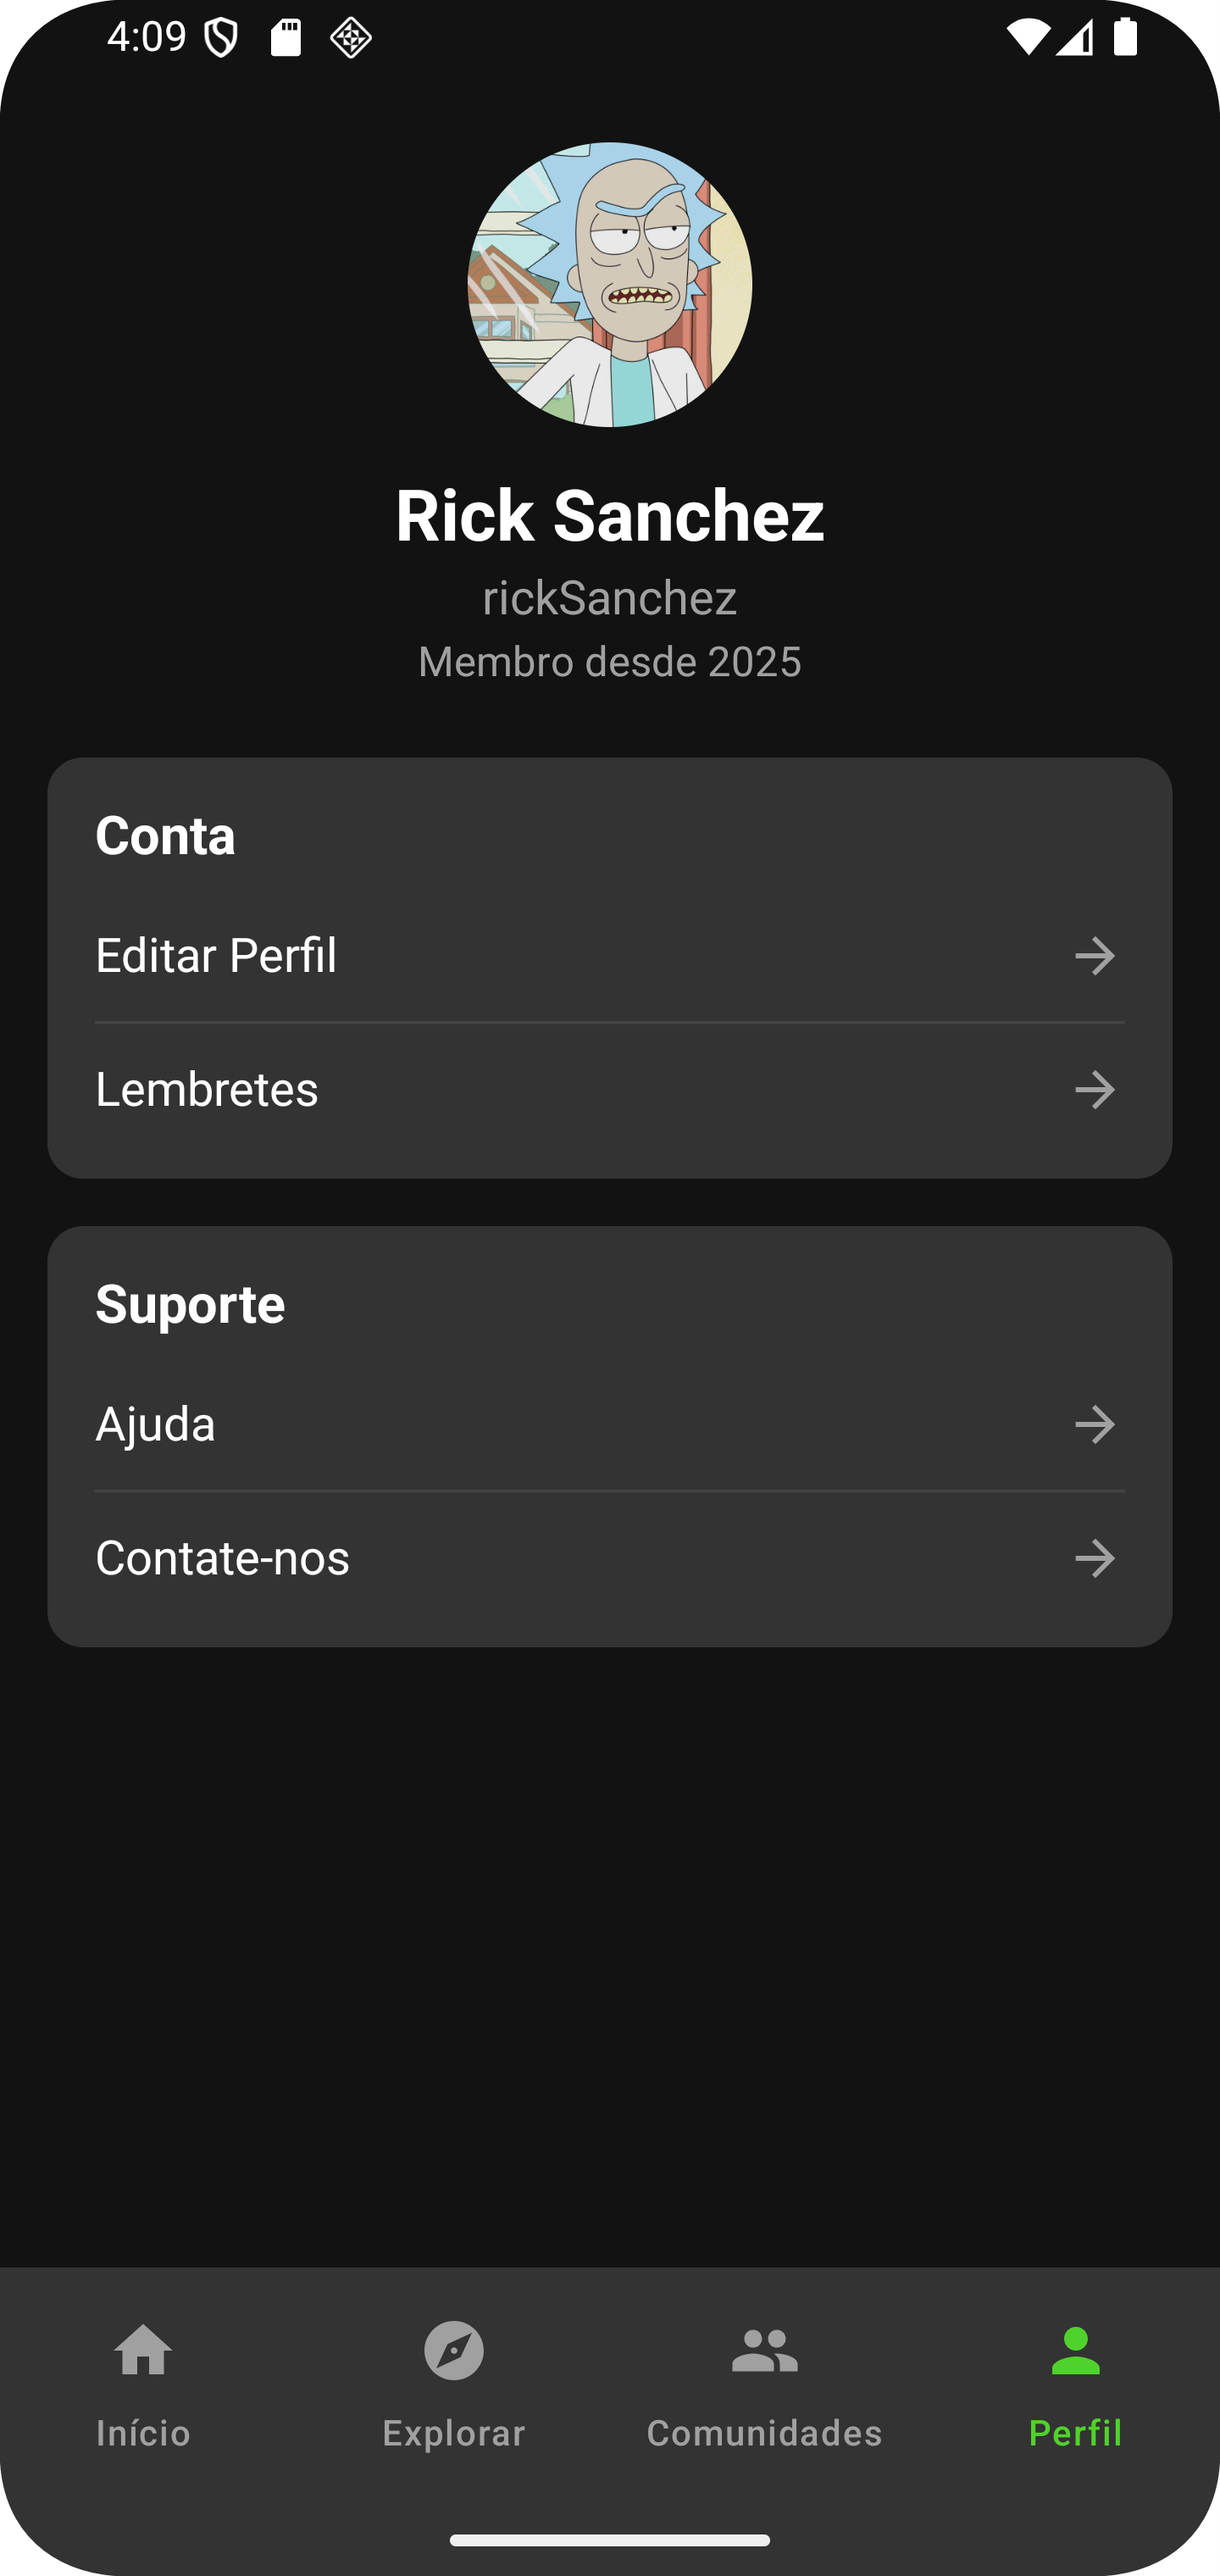
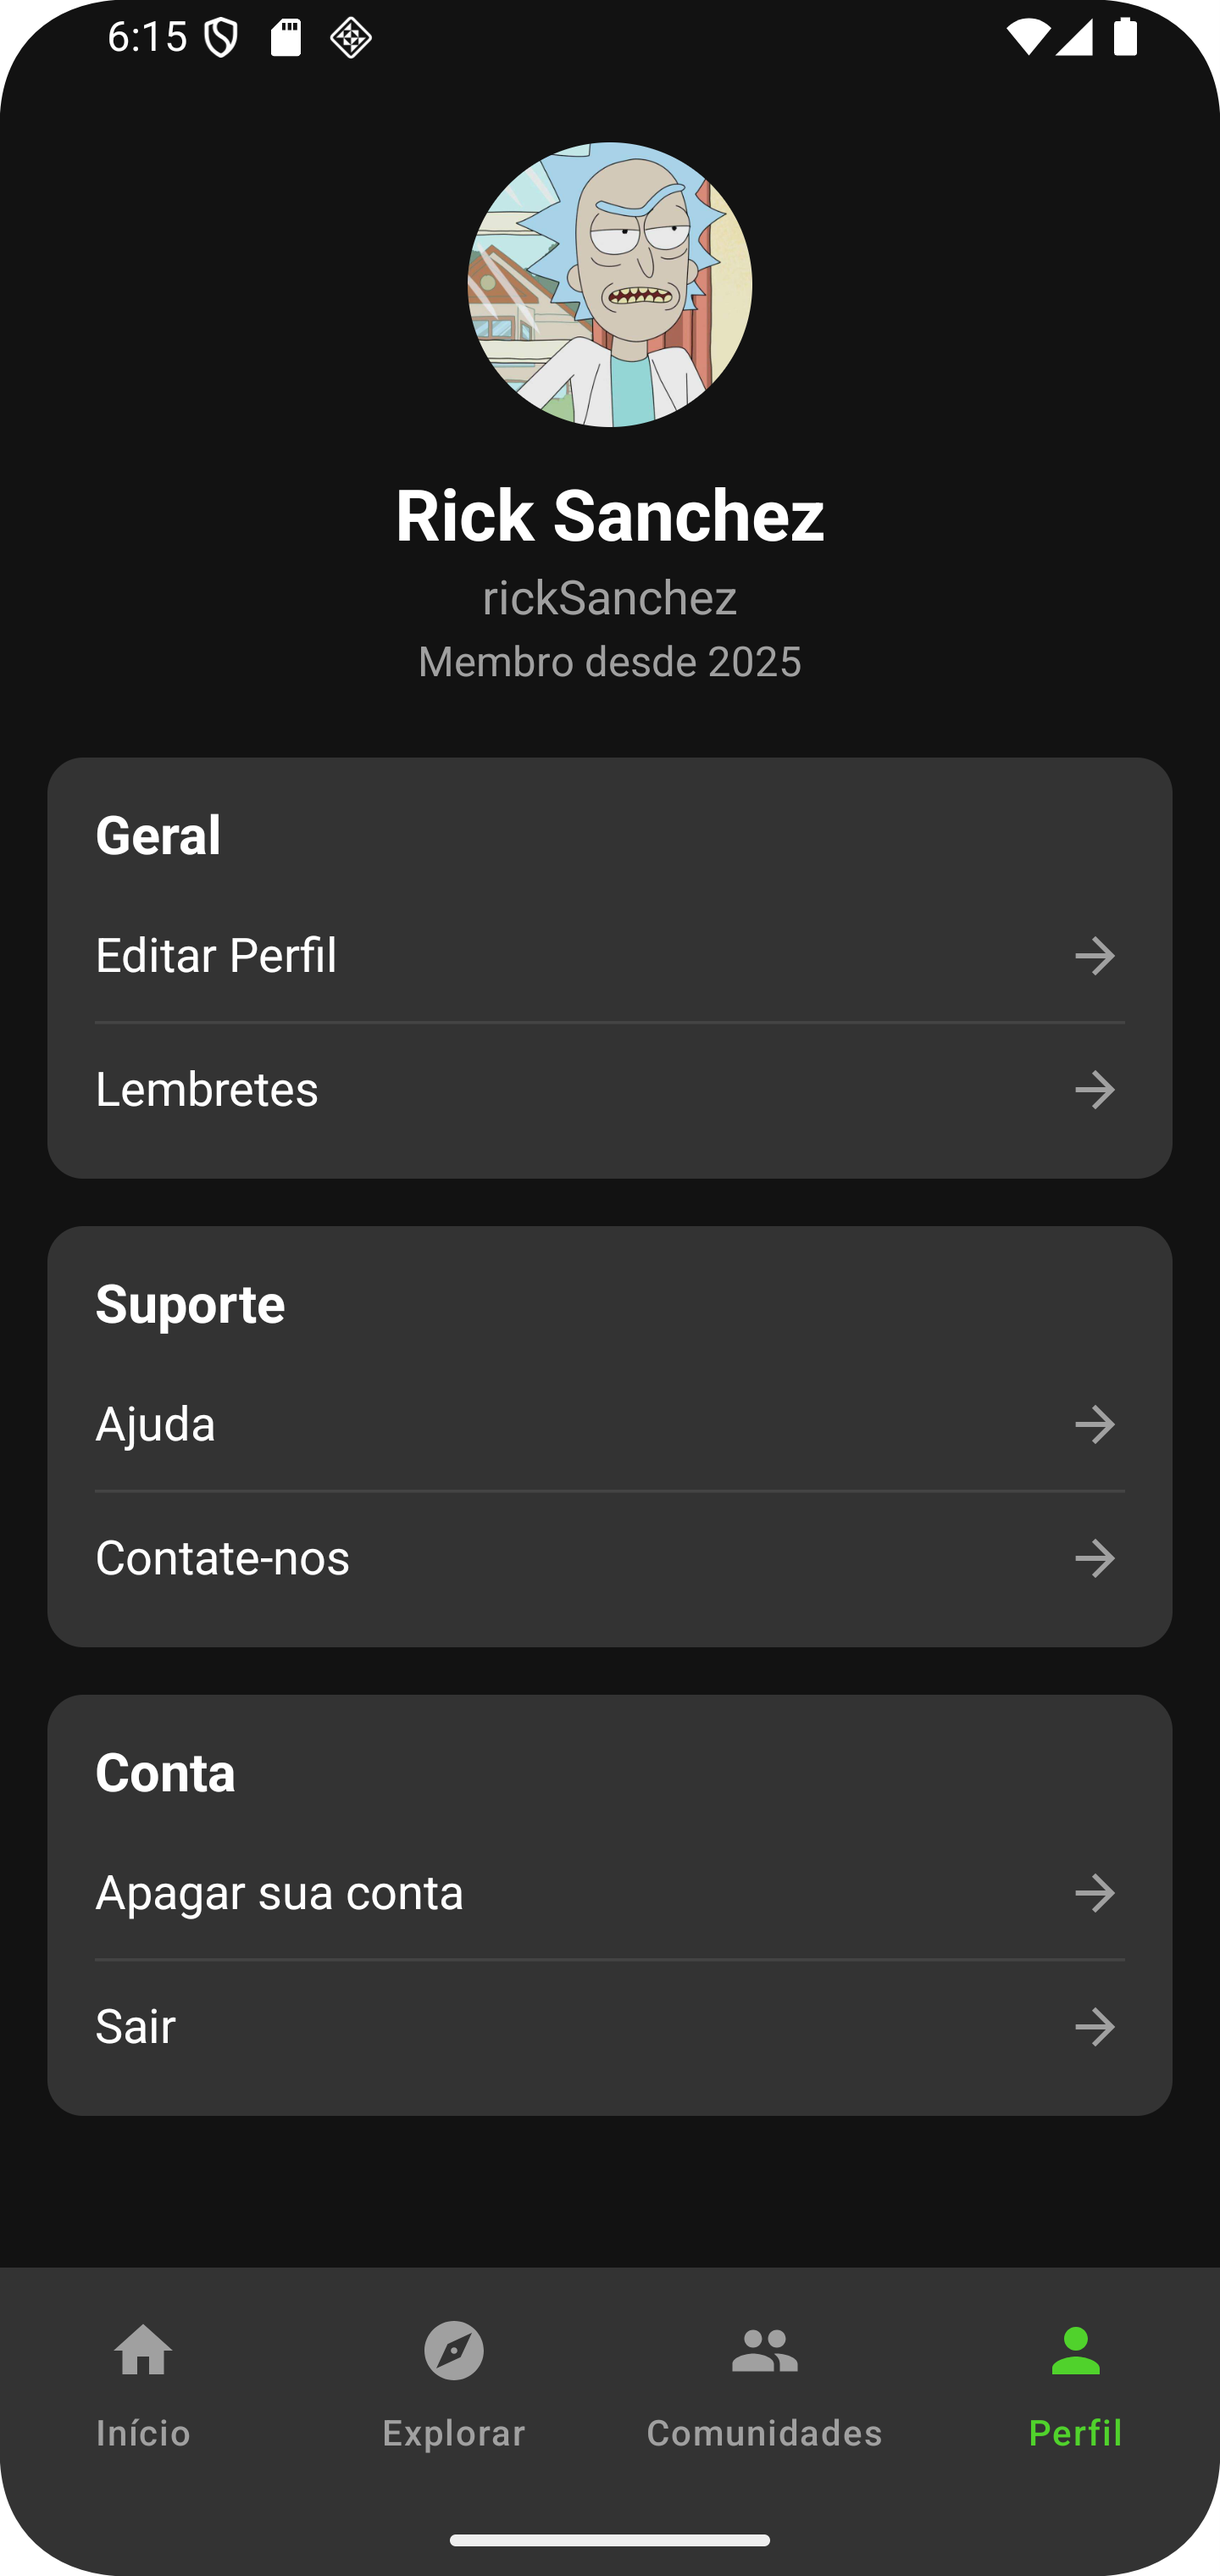
feat: add delete user account functionality and integrate into profile screen

Changed region(s): [[0.0312, 0.6562, 0.9688, 0.8438], [0.0938, 0.3125, 0.1875, 0.3438], [0.0938, 0.0, 0.1562, 0.0312]]

diff --git a/app/src/main/java/com/silva021/minhajornada/ui/screens/profile/ProfileScreen.kt b/app/src/main/java/com/silva021/minhajornada/ui/screens/profile/ProfileScreen.kt
@@ -1,12 +1,19 @@
 package com.silva021.minhajornada.ui.screens.profile
 
 import android.util.Log
+import androidx.compose.material3.Scaffold
+import androidx.compose.material3.SnackbarDuration
+import androidx.compose.material3.SnackbarHost
+import androidx.compose.material3.SnackbarHostState
 import androidx.compose.runtime.Composable
 import androidx.compose.runtime.LaunchedEffect
 import androidx.compose.runtime.collectAsState
 import com.silva021.minhajornada.ui.screens.defaults.error.ErrorScreen
 import com.silva021.minhajornada.ui.screens.defaults.loading.LoadingScreen
 import androidx.compose.runtime.getValue
+import androidx.compose.runtime.remember
+import androidx.compose.runtime.rememberCoroutineScope
+import kotlinx.coroutines.launch
 
 @Composable
 fun ProfileScreen(
@@ -14,11 +21,12 @@ fun ProfileScreen(
     onContactUsClick: () -> Unit,
     onHelpClick: () -> Unit,
     onEditProfileClick: () -> Unit,
-    onRemindersClick: () -> Unit
     onRemindersClick: () -> Unit,
     onNavigateToLogin: () -> Unit
 ) {
     val uiState by viewModel.uiState.collectAsState()
+    val snackbarHostState = remember { SnackbarHostState() }
+    val coroutineScope = rememberCoroutineScope()
 
     LaunchedEffect(Unit) {
         viewModel.fetchProfile()
@@ -27,6 +35,14 @@ fun ProfileScreen(
             when (event) {
                 is NavigationEvent.NavigateToLogin -> {
                     onNavigateToLogin.invoke()
+                }
+                is NavigationEvent.ShowSnackbar -> {
+                    coroutineScope.launch {
+                        snackbarHostState.showSnackbar(
+                            message = event.message,
+                            duration = SnackbarDuration.Long
+                        )
+                    }
                 }
             }
         }
@@ -37,14 +53,20 @@ fun ProfileScreen(
         is ProfileUiState.Error -> ErrorScreen(
             onRetry = { viewModel.fetchProfile() }
         )
-        is ProfileUiState.Success -> ProfileContent(
-            profile = state.profile,
-            onEditProfileClick = onEditProfileClick,
-            onContactUsClick = onContactUsClick,
-            onHelpClick = onHelpClick,
-            onRemindersClick = onRemindersClick
-            onRemindersClick = onRemindersClick,
-            onLogout = { viewModel.logout() }
-        )
+        is ProfileUiState.Success -> {
+            Scaffold(
+                snackbarHost = { SnackbarHost(hostState = snackbarHostState) }
+            ) { _ ->
+                ProfileContent(
+                    profile = state.profile,
+                    onEditProfileClick = onEditProfileClick,
+                    onContactUsClick = onContactUsClick,
+                    onHelpClick = onHelpClick,
+                    onRemindersClick = onRemindersClick,
+                    onDeleteAccount = { viewModel.deleteAccount() },
+                    onLogout = { viewModel.logout() }
+                )
+            }
+        }
     }
 }

diff --git a/app/src/main/java/com/silva021/minhajornada/ui/screens/profile/ProfileViewModel.kt b/app/src/main/java/com/silva021/minhajornada/ui/screens/profile/ProfileViewModel.kt
@@ -1,8 +1,12 @@
 package com.silva021.minhajornada.ui.screens.profile
 
+import androidx.compose.runtime.State
+import androidx.compose.runtime.mutableStateOf
 import androidx.lifecycle.ViewModel
 import androidx.lifecycle.viewModelScope
+import com.google.firebase.auth.FirebaseAuthRecentLoginRequiredException
 import com.silva021.minhajornada.domain.model.Profile
+import com.silva021.minhajornada.domain.usecases.DeleteUserAccountUseCase
 import com.silva021.minhajornada.domain.usecases.GetMyProfileUseCase
 import com.silva021.minhajornada.domain.usecases.LogoutUserUseCase
 import kotlinx.coroutines.channels.BufferOverflow
@@ -16,7 +20,8 @@ import kotlinx.coroutines.launch
 
 class ProfileViewModel(
     private val getProfile: GetMyProfileUseCase,
-    private val logoutUserUseCase: LogoutUserUseCase
+    private val logoutUserUseCase: LogoutUserUseCase,
+    private val deleteUserAccountUseCase: DeleteUserAccountUseCase
 ) : ViewModel() {
 
     private val _uiState = MutableStateFlow<ProfileUiState>(ProfileUiState.Loading)
@@ -27,17 +32,42 @@ class ProfileViewModel(
     )
     val eventFlow: Flow<NavigationEvent> = _eventFlow.asSharedFlow()
 
+    var profile: Profile? = null
+        private set
 
     fun fetchProfile() {
         if (_uiState.value.isSuccess().not()) {
             viewModelScope.launch {
                 _uiState.value = ProfileUiState.Loading
                 getProfile().onSuccess {
+                    profile = it
                     _uiState.value = ProfileUiState.Success(it)
                 }.onFailure {
                     _uiState.value = ProfileUiState.Error(
                         message = it.message ?: "Erro ao carregar perfil"
                     )
+                }
+            }
+        }
+    }
+
+    fun deleteAccount() {
+        viewModelScope.launch {
+            _uiState.value = ProfileUiState.Loading
+            deleteUserAccountUseCase.invoke().onSuccess {
+                _eventFlow.emit(NavigationEvent.NavigateToLogin)
+            }.onFailure { exception ->
+                profile?.let { profile ->
+                    _uiState.value = ProfileUiState.Success(profile)
+                }.also {
+                    when(exception) {
+                        is FirebaseAuthRecentLoginRequiredException -> {
+                            _eventFlow.emit(NavigationEvent.ShowSnackbar("É necessário fazer login novamente para excluir a conta"))
+                        }
+                        else -> {
+                            _eventFlow.emit(NavigationEvent.ShowSnackbar("Erro ao excluir conta"))
+                        }
+                    }
                 }
             }
         }
@@ -67,4 +97,5 @@ sealed class ProfileUiState {
 
 sealed class NavigationEvent {
     data object NavigateToLogin : NavigationEvent()
+    data class ShowSnackbar(val message: String) : NavigationEvent()
 }

diff --git a/app/src/main/java/com/silva021/minhajornada/di/Modules.kt b/app/src/main/java/com/silva021/minhajornada/di/Modules.kt
@@ -26,6 +26,7 @@ import com.silva021.minhajornada.domain.usecases.CreateReminderUseCase
 import com.silva021.minhajornada.domain.usecases.DeleteChallengeUseCase
 import com.silva021.minhajornada.domain.usecases.DeletePostUseCase
 import com.silva021.minhajornada.domain.usecases.DeleteReminderUseCase
+import com.silva021.minhajornada.domain.usecases.DeleteUserAccountUseCase
 import com.silva021.minhajornada.domain.usecases.EditPostUseCase
 import com.silva021.minhajornada.domain.usecases.GetChallengeByIdUseCase
 import com.silva021.minhajornada.domain.usecases.GetChallengesUseCase
@@ -68,7 +69,13 @@ import org.koin.dsl.module
 val viewModelModule = module {
     viewModel { ChallengesViewModel(get(), get()) }
     viewModel { CommunitiesViewModel(get()) }
-    viewModel { ProfileViewModel(get(), get()) }
+    viewModel {
+        ProfileViewModel(
+            getProfile = get(),
+            logoutUserUseCase = get(),
+            deleteUserAccountUseCase = get()
+        )
+    }
     viewModel { ExplorerViewModel(get(), get()) }
     viewModel { CommunityDetailsViewModel(get(), get()) }
     viewModel { CommunityFeedViewModel(get(), get(), get(), get(), get()) }
@@ -118,6 +125,7 @@ val usecasesModule = module {
     factory { GetPublicChallengesUseCase(get()) }
     factory { GetPublicChallengesByCategoryUseCase(get()) }
     factory { LogoutUserUseCase() }
+    factory { DeleteUserAccountUseCase() }
 }
 
 val repositoryModule = module {

diff --git a/app/src/main/java/com/silva021/minhajornada/ui/screens/profile/ProfileContent.kt b/app/src/main/java/com/silva021/minhajornada/ui/screens/profile/ProfileContent.kt
@@ -46,8 +46,8 @@ fun ProfileContent(
     onEditProfileClick: () -> Unit,
     onHelpClick: () -> Unit,
     onContactUsClick: () -> Unit,
-    onRemindersClick: () -> Unit
     onRemindersClick: () -> Unit,
+    onDeleteAccount: () -> Unit = {},
     onLogout: () -> Unit = {}
 ) {
     LazyColumn(
@@ -94,6 +94,7 @@ fun ProfileContent(
             SectionCard(
                 title = "Conta",
                 items = listOf(
+                    SettingsItem("Excluir conta", onClick = onDeleteAccount),
                     SettingsItem("Sair", onClick = onLogout)
                 )
             )

diff --git a/app/src/main/java/com/silva021/minhajornada/application/MainActivity.kt b/app/src/main/java/com/silva021/minhajornada/application/MainActivity.kt
@@ -140,7 +140,6 @@ class MainActivity : ComponentActivity() {
                                     Routes.ActiveChallengesScreen.navigateToActiveChallengesScreen(
                                         navController
                                     )
-                                }
                                 },
                                 onNavigateToLogin = {
                                     Routes.LoginScreen.navigateToLoginScreen(navController)

diff --git a/app/src/main/java/com/silva021/minhajornada/domain/usecases/DeleteUserAccountUseCase.kt b/app/src/main/java/com/silva021/minhajornada/domain/usecases/DeleteUserAccountUseCase.kt
@@ -1,0 +1,13 @@
+package com.silva021.minhajornada.domain.usecases
+
+import com.google.firebase.Firebase
+import com.google.firebase.auth.auth
+import kotlinx.coroutines.tasks.await
+
+class DeleteUserAccountUseCase {
+    suspend fun invoke(
+    ) = runCatching {
+        val user = Firebase.auth.currentUser
+        user?.delete()?.await()
+    }
+}
